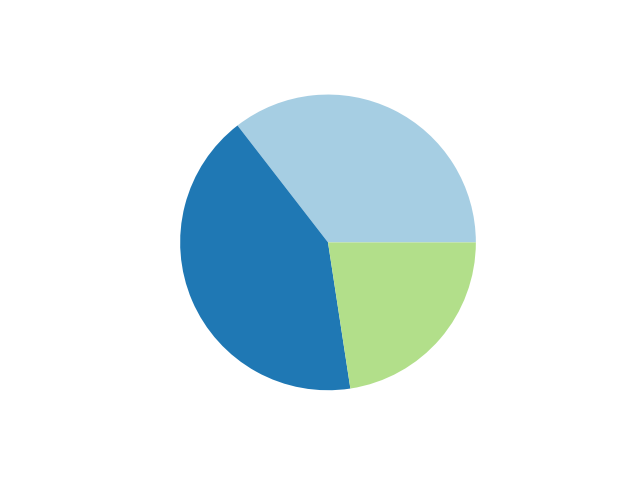
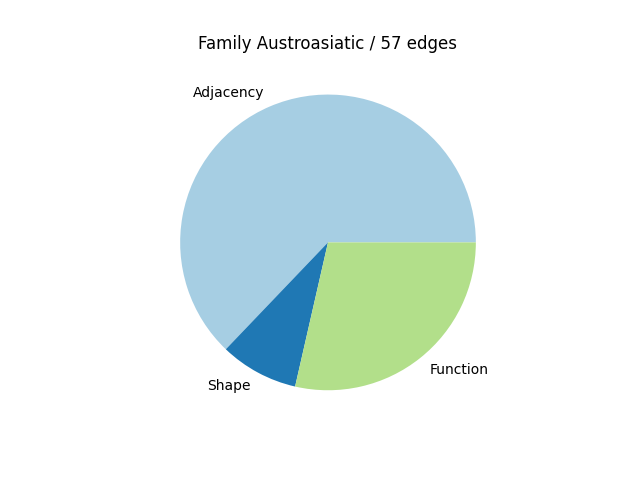
update

diff --git a/clicsbpcommands/piecharts.py b/clicsbpcommands/piecharts.py
@@ -32,8 +32,13 @@ def run(args):
     rels = {}
     for row in relations:
         # change choice() to row["Relation"] !
-        rels[row["NodeA"], row["NodeB"]] = choice(["1", "2", "3"])
-        rels[row["NodeB"], row["NodeA"]] = rels[row["NodeA"], row["NodeB"]]
+        if row["NodeA"] != row["NodeB"]:
+            rels[row["NodeA"], row["NodeB"]] = (
+                    int(row["Adjacency"]),
+                    int(row["Shape"]),
+                    int(row["Function"])
+                    )
+            rels[row["NodeB"], row["NodeA"]] = rels[row["NodeA"], row["NodeB"]]
 
 
     data = defaultdict(lambda : defaultdict(list))
@@ -65,17 +70,20 @@ def run(args):
                     weight = float(weight)
                     if not conB in G.nodes:
                         G.add_node(con, community=com)
-                    G.add_edge(con, conB, weight=weight)
+                    if not con == conB:
+                        G.add_edge(con, conB, weight=weight)
         # get relations
-        relidx = {"1": 0, "2": 1, "3": 2}
         this_pie = [0, 0, 0]
         for nodeA, nodeB in G.edges:
             try:
-                this_pie[relidx[rels[nodeA, nodeB]]] += 1
+                this_pie[0] += rels[nodeA, nodeB][0]
+                this_pie[1] += rels[nodeA, nodeB][1]
+                this_pie[2] += rels[nodeA, nodeB][2]
             except:
                 print(fam, nodeA, nodeB)
         pies[fam] = this_pie
-        plt.pie(this_pie, colors=colors)
+        plt.pie(this_pie, colors=colors, labels=["Adjacency", "Shape", "Function"])
+        plt.title("Family {0} / {1} edges".format(fam, len(G.edges)))
         plt.savefig(
                 clicsbp.dir.joinpath(
                     "output", 
